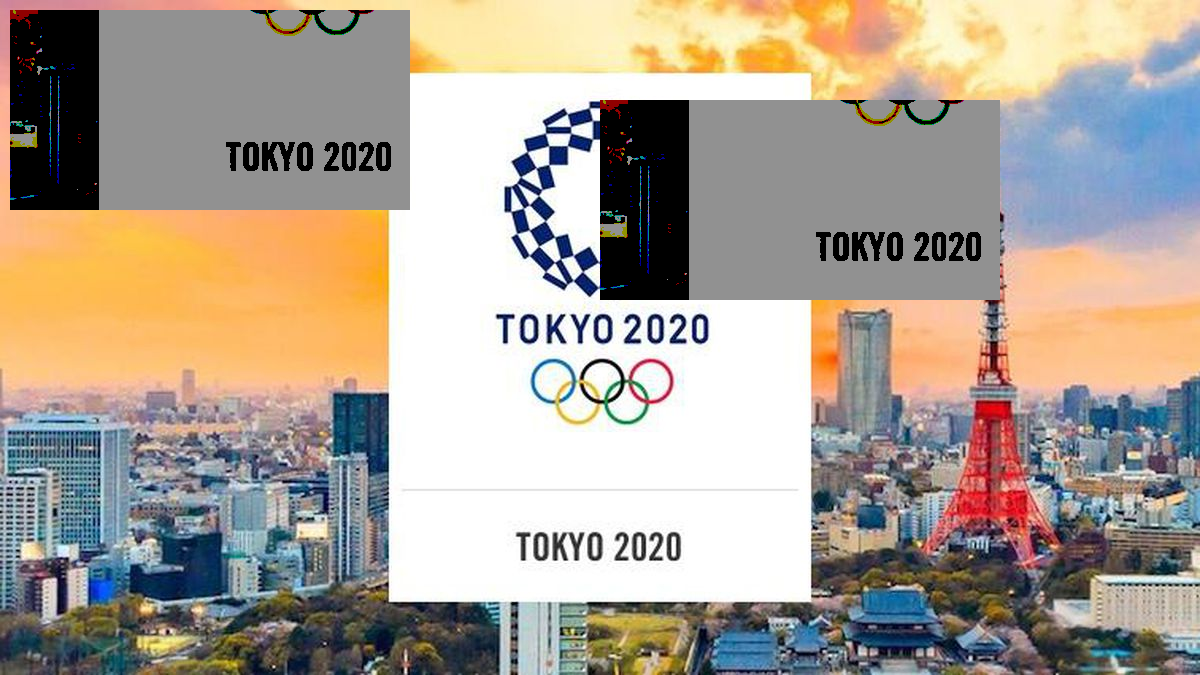
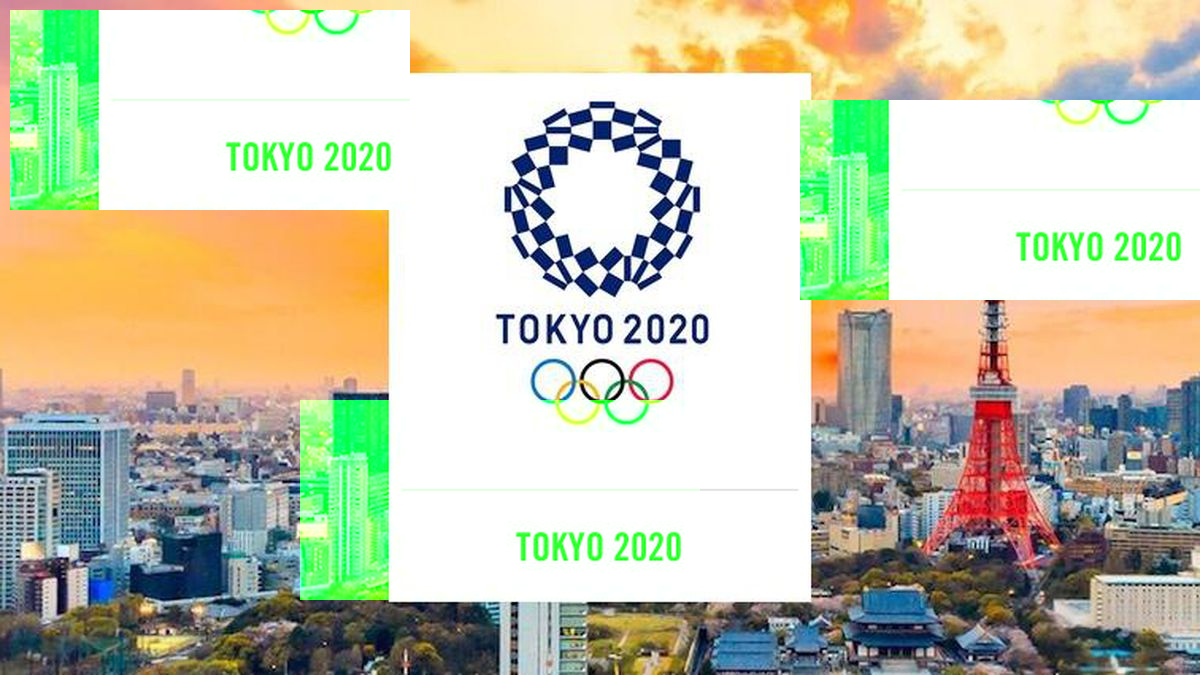
ROI進階

diff --git a/img1.py b/img1.py
@@ -8,8 +8,10 @@ print(img1[100,200])
 print(img1.item(100,200,1))
 # img1[200:400,300:700]=[255,0,0]
 roi = img1[400:600,300:700]  
+roi[:,:,1]=255
+# roi[:,:,2]=0
 h,w,a =roi.shape
-img1[100:300,600:1000] = roi
+img1[100:300,800:1200] = roi
 print(len(roi),len(roi[0]))
 img1[10:10+h,10:10+w] = roi
 print(img1.size)
